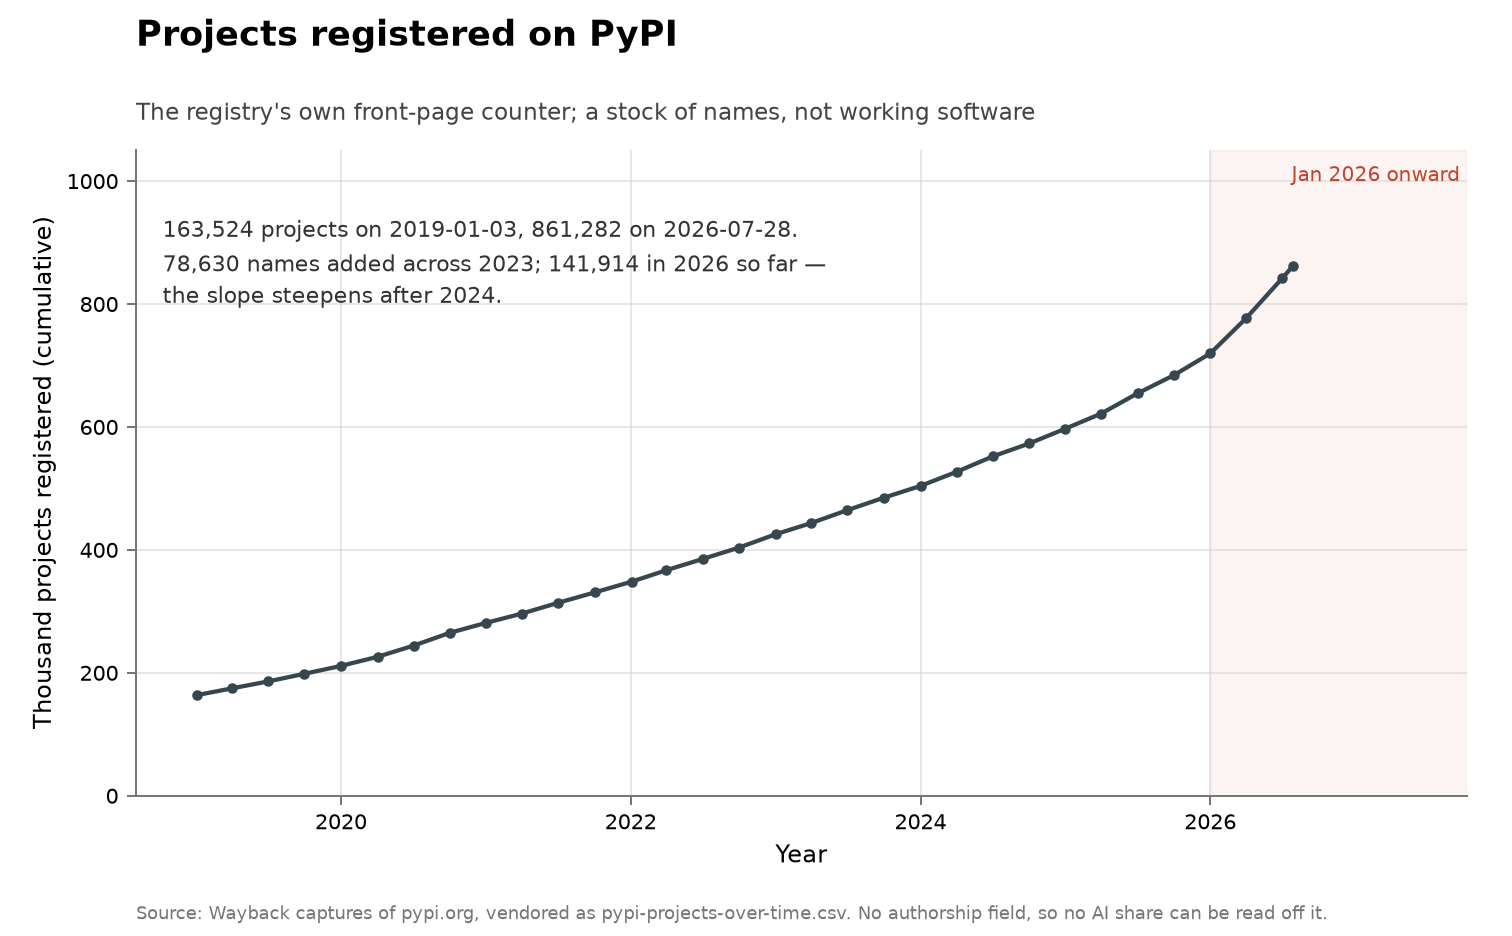
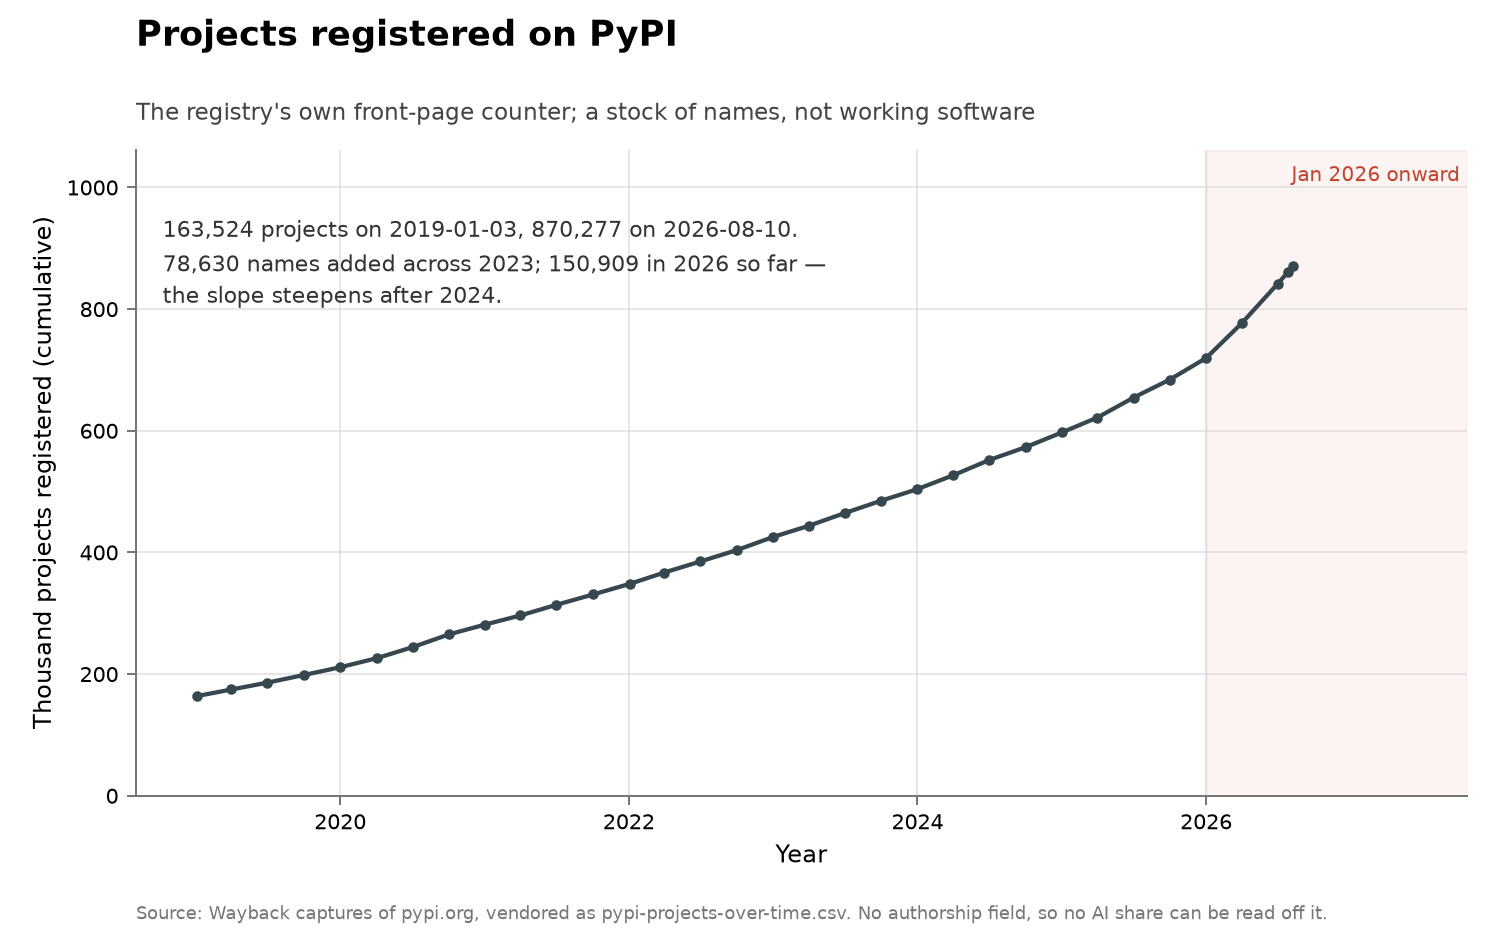
Correct output-series intervals and refresh PyPI

diff --git a/README.md b/README.md
@@ -181,7 +181,7 @@ not.
 | <a href="problems/output-arxiv/"><img src="problems/output-arxiv/output-arxiv-submissions.png" width="400" alt="arXiv submissions"></a> | <b><a href="problems/output-arxiv/">arXiv submissions</a></b><br><b>Metric:</b> research output; preprints submitted<br>to arXiv per month<br><b>Coverage:</b> 1991-07 to 2026-08, monthly, the<br>last month partial<br><b>Acceleration?</b> 📈 accelerating — on volume,<br>which is not discovery |
 | <a href="problems/output-crossref/"><img src="problems/output-crossref/output-crossref-dois.png" width="400" alt="DOI records deposited with Crossref"></a> | <b><a href="problems/output-crossref/">DOI records deposited with Crossref</a></b><br><b>Metric:</b> formal publishing volume; DOI records<br>deposited with Crossref per year, by created<br>date<br><b>Coverage:</b> 2010 to 2026, annual, the last year<br>partial<br><b>Acceleration?</b> ➡ no acceleration |
 | <a href="problems/output-github-pushes/"><img src="problems/output-github-pushes/output-github-pushes.png" width="400" alt="Git pushes to GitHub"></a> | <b><a href="problems/output-github-pushes/">Git pushes to GitHub</a></b><br><b>Metric:</b> code output; git pushes to GitHub per<br>quarter, summed over economies<br><b>Coverage:</b> 2020-Q1 to 2026-Q1, quarterly<br><b>Acceleration?</b> 📈 accelerating — on volume,<br>which is not discovery |
-| <a href="problems/output-pypi/"><img src="problems/output-pypi/output-pypi-projects.png" width="400" alt="Projects registered on PyPI"></a> | <b><a href="problems/output-pypi/">Projects registered on PyPI</a></b><br><b>Metric:</b> code output; total projects registered<br>on the Python Package Index, a stock rather<br>than a flow<br><b>Coverage:</b> 2019-01 to 2026-07, roughly<br>quarterly readings of the front-page counter<br><b>Acceleration?</b> 📈 accelerating — on volume,<br>which is not discovery |
+| <a href="problems/output-pypi/"><img src="problems/output-pypi/output-pypi-projects.png" width="400" alt="Projects registered on PyPI"></a> | <b><a href="problems/output-pypi/">Projects registered on PyPI</a></b><br><b>Metric:</b> code output; total projects registered<br>on the Python Package Index, a stock rather<br>than a flow<br><b>Coverage:</b> 2019-01 to 2026-08, roughly<br>quarterly readings of the front-page counter<br><b>Acceleration?</b> 📈 accelerating — on volume,<br>which is not discovery |
 | <a href="problems/output-stackoverflow/"><img src="problems/output-stackoverflow/output-stackoverflow-questions.png" width="400" alt="Stack Overflow questions"></a> | <b><a href="problems/output-stackoverflow/">Stack Overflow questions</a></b><br><b>Metric:</b> demand for human answers; questions<br>created on Stack Overflow per month<br><b>Coverage:</b> 2019-01 to 2026-07, monthly,<br>complete months only<br><b>Acceleration?</b> 📉 declining — on demand for<br>human answers, not on discovery |
 | <a href="problems/technology-cost-curves/"><img src="problems/technology-cost-curves/efficiency-halving-times.png" width="400" alt="Technology cost curves: the pre-AI efficiency baseline"></a> | <b><a href="problems/technology-cost-curves/">Technology cost curves: the pre-AI efficiency baseline</a></b><br><b>Metric:</b> 66 industrial and scientific<br>technologies; months to halve unit cost,<br>fitted log-linearly per technology, set<br>against the halving times quoted for AI<br>algorithmic progress<br><b>Coverage:</b> 1929–2013 for the cost curves;<br>2012–2023 for the three AI estimates they are<br>compared with<br><b>Acceleration?</b> ⚪ baseline |
 |  | <b><a href="problems/weather-forecasting/">Weather forecasting</a></b><br><b>Metric:</b> numerical weather prediction; forecast<br>days of useful skill on 500 hPa geopotential<br>height, plus the dated arrival of machine-<br>learning models that beat the physics<br>incumbent<br><b>Coverage:</b> skill anchors 1980 and 1985, rate<br>claim published 2015; model arrivals 2022-02<br>to 2025-02<br><b>Acceleration?</b> ➡ no acceleration — the skill<br>trend did not bend; the cost of producing a<br>forecast fell by about three orders of<br>magnitude |

diff --git a/problems/output-pypi/README.md b/problems/output-pypi/README.md
@@ -2,12 +2,12 @@
 
 **Domain:** outside the three domains
 **Metric:** code output; total projects registered on the Python Package Index, a stock rather than a flow
-**Coverage:** 2019-01 to 2026-07, roughly quarterly readings of the front-page counter
+**Coverage:** 2019-01 to 2026-08, roughly quarterly readings of the front-page counter
 **Data:** [`pypi-projects-over-time.csv`](pypi-projects-over-time.csv)
 **Upstream:** <https://pypi.org/>
 **Verdict:** accelerating — on volume, which is not discovery
 
-![Total projects registered on PyPI, January 2019 to July 2026, one marker per dated reading of the front-page counter.](output-pypi-projects.png)
+![Total projects registered on PyPI, January 2019 to August 2026, one marker per dated reading of the front-page counter.](output-pypi-projects.png)
 
 ## The problem
 
@@ -27,9 +27,9 @@ about any particular year; only the slope does.
 
 ## What the chart shows
 
-The counter stood at 163,524 projects on 3 January 2019 and 861,282 on 28 July
+The counter stood at 163,524 projects on 3 January 2019 and 870,277 on 10 August
 2026. The slope steepens after 2024: 78,630 names were added across 2023 and
-141,914 in the first seven months of 2026 alone, which is more than any complete
+150,909 in 2026 through that date, which is more than any complete
 year in the series, 2025 included at 122,378.
 
 Each marker is one dated reading rather than an interpolated month, so the
@@ -46,8 +46,8 @@ on the day it is taken.
 
 There is no `fetch.py` in this folder and nothing here can be refetched. PyPI
 publishes a current total only, so the history was collected by hand, from 31
-dated Wayback captures of the front-page counter plus one live reading taken on
-28 July 2026. Each row of the CSV carries the capture URL it was transcribed
+dated Wayback captures of the front-page counter plus live readings taken on
+28 July and 10 August 2026. Each row of the CSV carries the capture URL it was transcribed
 from, so any reading can be checked against the page it came from. Extending the
 series means finding another capture and adding a row by hand.
 

diff --git a/problems/output-stackoverflow/README.md b/problems/output-stackoverflow/README.md
@@ -77,7 +77,8 @@ series has no authorship field at all.
 ## LLM contributions
 
 This is the one series in the collection where timing does most of the work. The
-fall begins at ChatGPT's release and runs to near zero over three and a half
+fall begins at ChatGPT's release and runs to roughly one percent of that level
+over three and a half
 years, and asking a public question is directly substitutable by asking a model,
 which makes substitution the natural reading.
 
@@ -97,5 +98,5 @@ other rising artifact counts, and [Crossref](../output-crossref/README.md) is
 the control on all of them. Set the whole group against
 [curl](../cyber-curl/README.md), where a fixed codebase yields a step change in
 disclosures, and against the mathematics folders, where the records barely move:
-this is the only series here that changes by two orders of magnitude, and it
+this is the only series here that changes by almost two orders of magnitude, and it
 measures nobody discovering anything.

diff --git a/problems/output-github-pushes/README.md b/problems/output-github-pushes/README.md
@@ -28,8 +28,8 @@ software and not a result.
 Pushes rose from 135.4 million in 2022-Q4, the quarter ChatGPT was released, to
 167.8 million in 2024-Q4 and 319.8 million in 2026-Q1, roughly doubling over the
 last five quarters of the series. This is the sharpest bend of the five volume
-series, and the bend is late: the first eleven quarters add 68%, the following
-thirteen add 136%, and the steepest part of the climb runs from 2025 into the
+series, and the bend is late: 2020-Q1 through 2022-Q4 adds 68%, while 2022-Q4
+through 2026-Q1 adds 136%, and the steepest part of the climb runs from 2025 into the
 shaded 2026 period.
 
 Every figure in the annotation is computed from the CSV when the chart is drawn,
